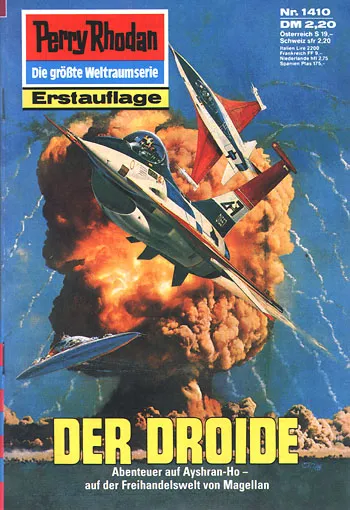
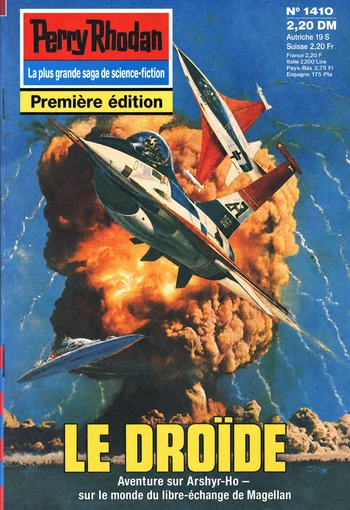
Update French Perry Rhodan covers 1403-1412

diff --git a/src/content/chapitres/de-1407.md b/src/content/chapitres/de-1407.md
@@ -5,7 +5,7 @@ cycleNumber: 21
 chapterNumber: 1407
 type: translation
 originalTitle: "Der Eremit von Satrang"
-cover: "/images/covers/de-1407.webp"
+cover: "/images/covers/de-1407.webp?v=20260826-1412"
 auteur: "Clark Darlton"
 parution: "1988-08-09"
 statut: traduit

diff --git a/src/content/chapitres/de-1403.md b/src/content/chapitres/de-1403.md
@@ -5,7 +5,7 @@ cycleNumber: 21
 chapterNumber: 1403
 type: translation
 originalTitle: "Die fliegenden Menschen"
-cover: "/images/covers/de-1403.webp"
+cover: "/images/covers/de-1403.webp?v=20260826-1412"
 auteur: "Marianne Sydow"
 parution: "1988-07-12"
 statut: wip

diff --git a/src/content/chapitres/de-1412.md b/src/content/chapitres/de-1412.md
@@ -5,7 +5,7 @@ cycleNumber: 21
 chapterNumber: 1412
 type: translation
 originalTitle: "Der Pirat von Magellan"
-cover: "/images/covers/de-1412.webp"
+cover: "/images/covers/de-1412.webp?v=20260826-1412"
 auteur: "Marianne Sydow"
 parution: "1988-09-13"
 statut: wip

diff --git a/src/content/chapitres/de-1404.md b/src/content/chapitres/de-1404.md
@@ -5,7 +5,7 @@ cycleNumber: 21
 chapterNumber: 1404
 type: translation
 originalTitle: "Diebe aus der Zukunft"
-cover: "/images/covers/de-1404.webp"
+cover: "/images/covers/de-1404.webp?v=20260826-1412"
 auteur: "K. H. Scheer"
 parution: "1988-07-19"
 statut: wip

diff --git a/src/content/chapitres/de-1406.md b/src/content/chapitres/de-1406.md
@@ -5,7 +5,7 @@ cycleNumber: 21
 chapterNumber: 1406
 type: translation
 originalTitle: "Barriere im Nichts"
-cover: "/images/covers/de-1406.webp"
+cover: "/images/covers/de-1406.webp?v=20260826-1412"
 auteur: "Robert Feldhoff"
 parution: "1988-08-02"
 statut: wip

diff --git a/src/content/chapitres/de-1405.md b/src/content/chapitres/de-1405.md
@@ -5,7 +5,7 @@ cycleNumber: 21
 chapterNumber: 1405
 type: translation
 originalTitle: "Die Erben der Posbis"
-cover: "/images/covers/de-1405.webp"
+cover: "/images/covers/de-1405.webp?v=20260826-1412"
 auteur: "H. G. Ewers"
 parution: "1988-07-26"
 statut: wip

diff --git a/src/content/chapitres/de-1408.md b/src/content/chapitres/de-1408.md
@@ -5,7 +5,7 @@ cycleNumber: 21
 chapterNumber: 1408
 type: translation
 originalTitle: "Ein Tropfen Ewigkeit"
-cover: "/images/covers/de-1408.webp"
+cover: "/images/covers/de-1408.webp?v=20260826-1412"
 auteur: "Ernst Vlcek"
 parution: "1988-08-16"
 statut: wip

diff --git a/src/content/chapitres/de-1411.md b/src/content/chapitres/de-1411.md
@@ -5,7 +5,7 @@ cycleNumber: 21
 chapterNumber: 1411
 type: translation
 originalTitle: "Eiswelt Issam-Yu"
-cover: "/images/covers/de-1411.webp"
+cover: "/images/covers/de-1411.webp?v=20260826-1412"
 auteur: "Peter Griese"
 parution: "1988-09-06"
 statut: wip

diff --git a/src/content/chapitres/de-1409.md b/src/content/chapitres/de-1409.md
@@ -5,7 +5,7 @@ cycleNumber: 21
 chapterNumber: 1409
 type: translation
 originalTitle: "Sucher in M 3"
-cover: "/images/covers/de-1409.webp"
+cover: "/images/covers/de-1409.webp?v=20260826-1412"
 auteur: "Arndt Ellmer"
 parution: "1988-08-23"
 statut: wip

diff --git a/src/content/chapitres/de-1410.md b/src/content/chapitres/de-1410.md
@@ -5,7 +5,7 @@ cycleNumber: 21
 chapterNumber: 1410
 type: translation
 originalTitle: "Der Droide"
-cover: "/images/covers/de-1410.webp"
+cover: "/images/covers/de-1410.webp?v=20260826-1412"
 auteur: "Kurt Mahr"
 parution: "1988-08-30"
 statut: wip
